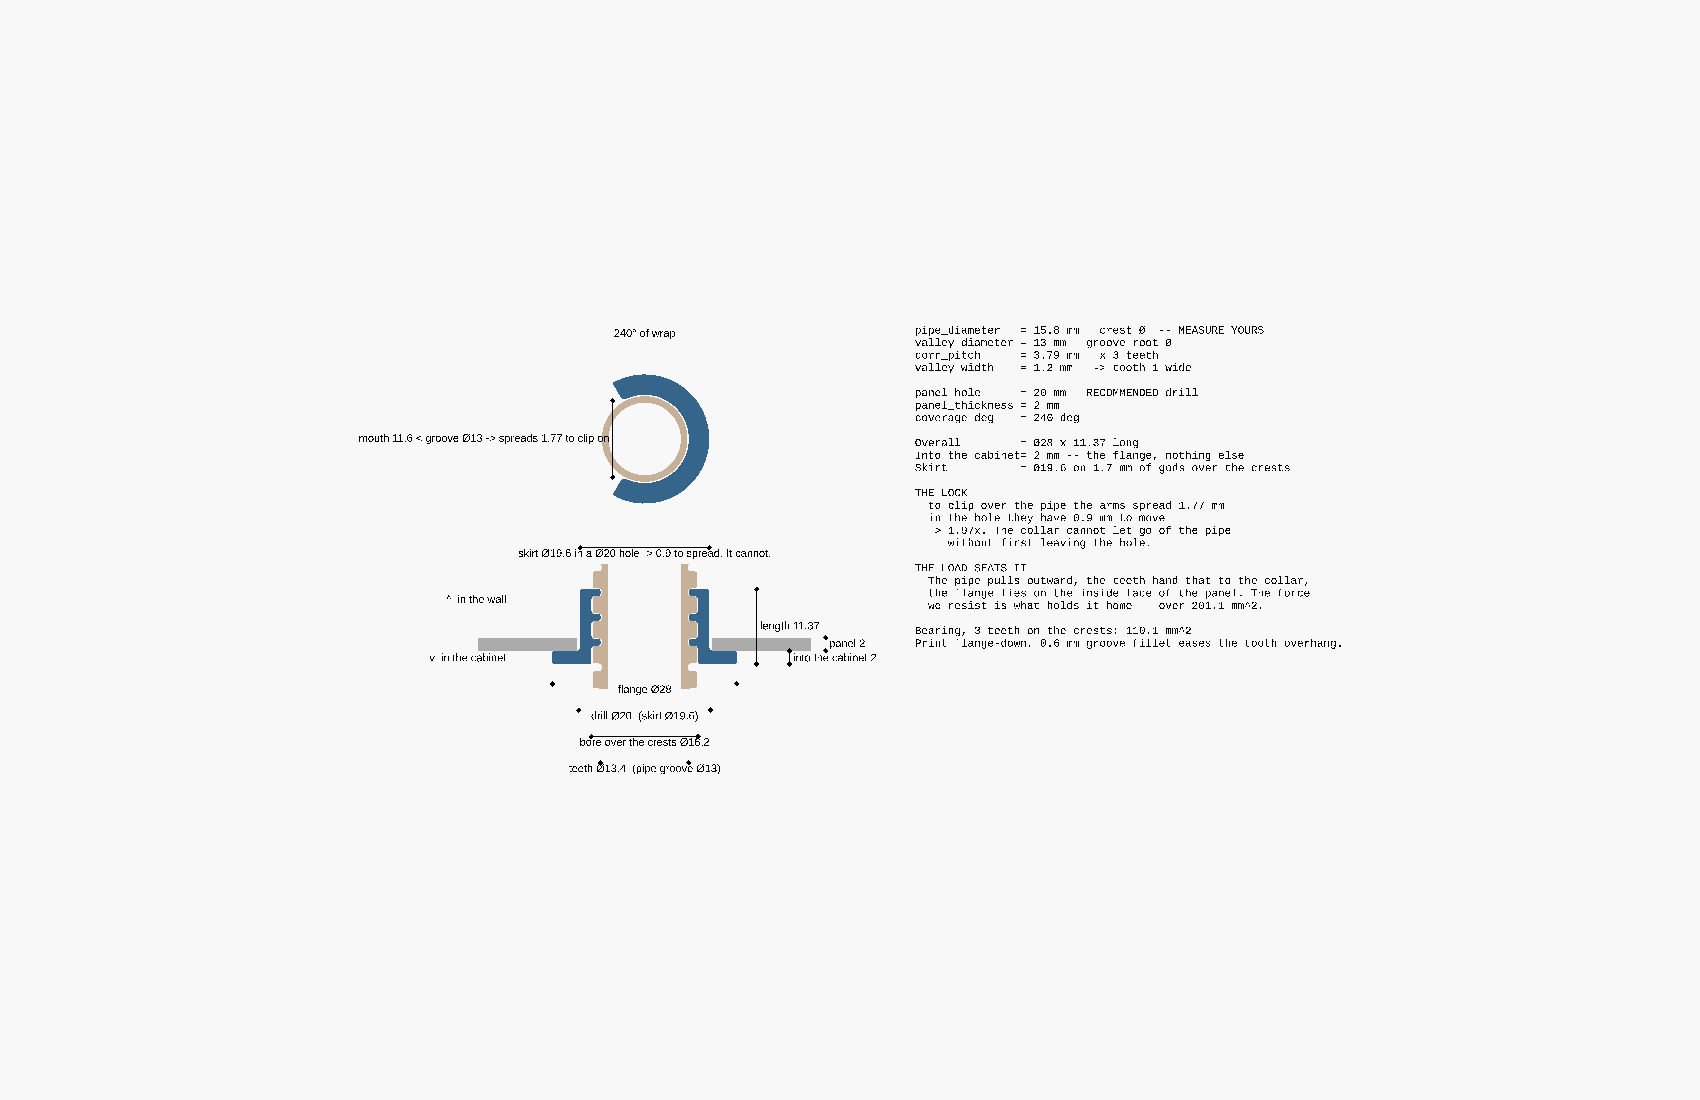
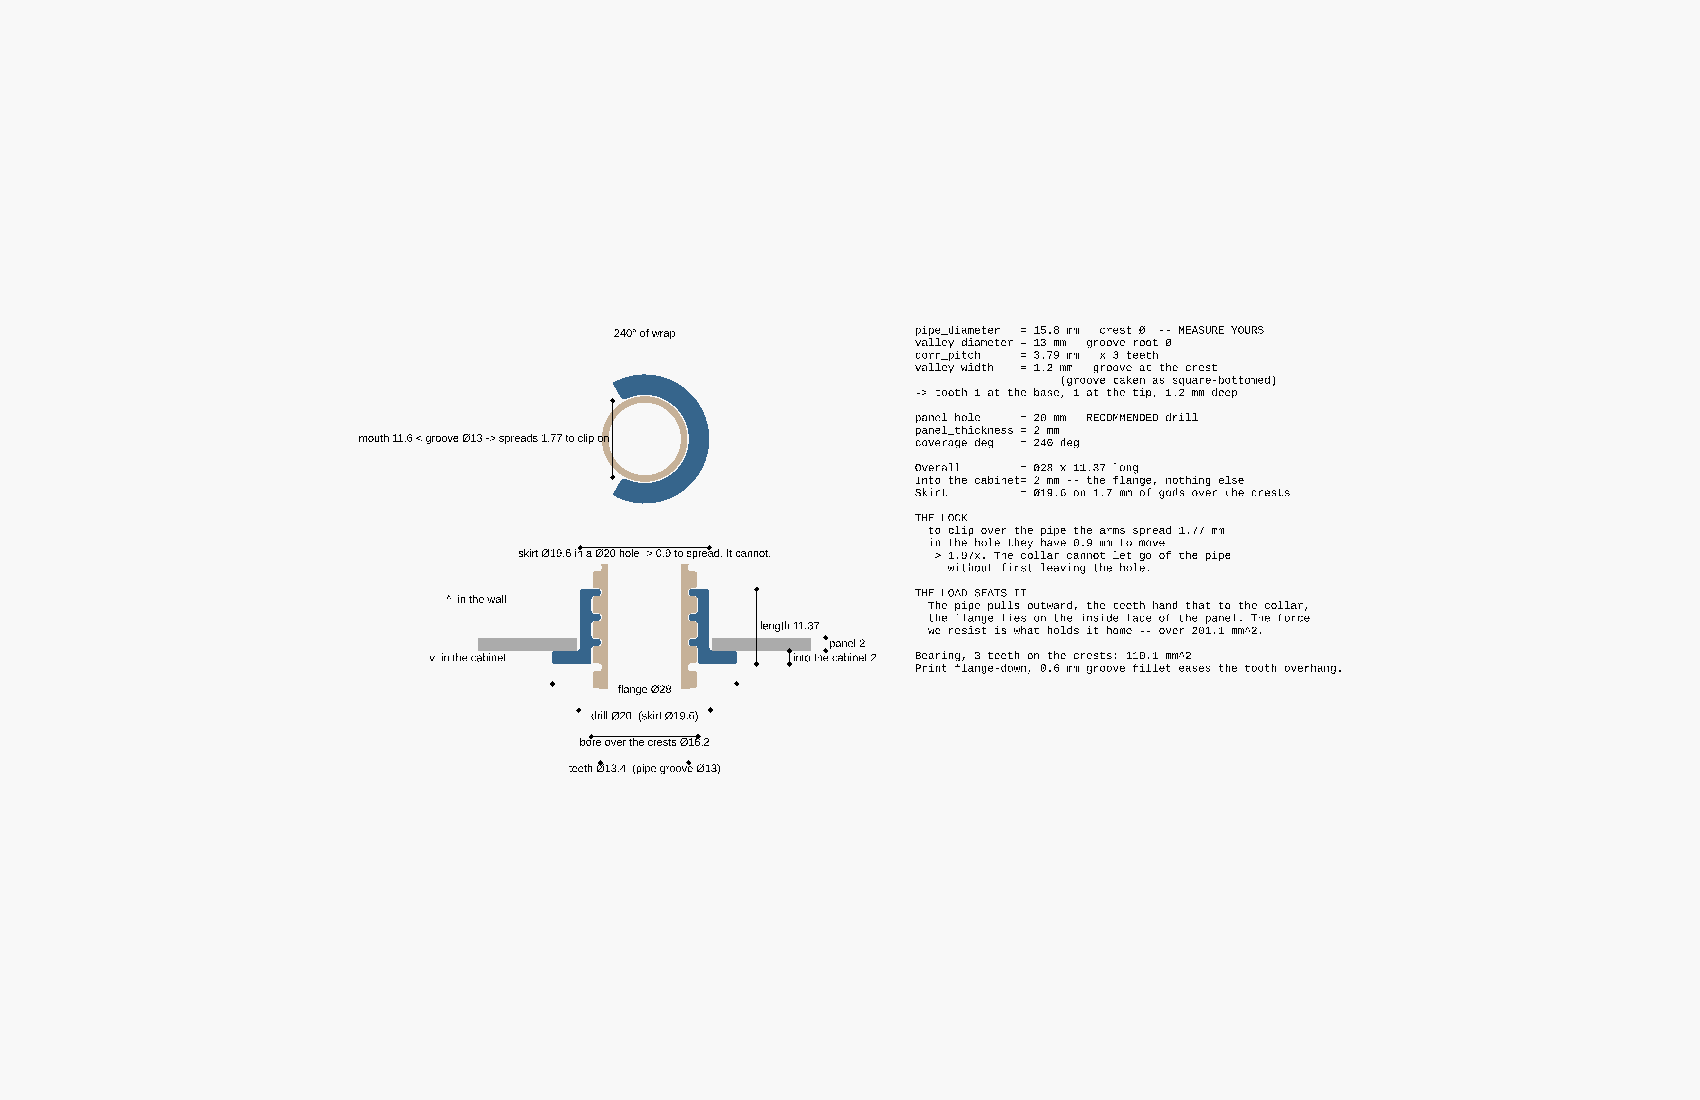
snap_collar: a pointed tooth for the 20 mm pipe, whose groove is a V
Measured on the actual conduit: five corrugations over 19.15 mm, crest 2.8 mm
wide, and a groove that opens about 1.03 mm at the crest and closes to roughly
0.35 at the root. The old snap_collar_20mm preset guessed pitch 4.4 and a 1.4 mm
square groove, and was wrong on both counts.

The teeth were too wide, which is not a number to nudge but a shape to change. A
square tooth cut to the groove's mouth width is 0.83 mm across, and the groove is
only that wide 0.44 mm down -- so it lands on the flanks near the top and stops,
at under half the intended bite. It renders perfectly and grips like a bump. The
new fit check puts a number on it: 16 mm^3 of such a tooth is inside the pipe, in
six rings hugging the groove walls from the tip radius right out to the crest.

So the tooth follows the groove:

  valley_root_width  the groove's width at its root; 0 keeps it square-bottomed,
                     which is what every 16 mm preset says and why they do not
                     move a byte
  tooth_bite         how far in past the crest the tooth reaches, so it can stop
                     before the walls close on it -- 1.0 mm here, leaving 0.5 mm
                     clear of the root

Both ends of the tooth are read off the groove's own flank line, stepped back
tooth_side_play/2, so the clearance is 0.1 mm per side at every depth instead of
pinching at one corner. 0.92 mm at the base, 0.38 at the tip. In the print
[…]

Changed region(s): [[0.53, 0.3709, 0.7794, 0.6182], [0.6235, 0.34, 0.7171, 0.3709]]

diff --git a/README.md b/README.md
@@ -312,6 +312,71 @@ thick, and the model refuses it by name. Ø20 leaves 1.7 mm of gods over the cre
 neither holds the pipe nor gets locked by the hole, above ~290° there is no mouth left to
 get the pipe in.
 
+### 20 mm: the groove is not a slot
+
+The 16 mm pipe measured here has a groove square enough to model as one. The 20 mm pipe does
+not. Measured: five corrugations over 19.15 mm, crest 2.8 mm wide, and a groove that opens
+about 1.0 mm at the crest and closes to roughly a third of that at the root — a U tending
+towards a V.
+
+A square tooth cut to the groove's mouth width **does not go in**. It is 0.83 mm wide and
+the groove is only that wide 0.44 mm down, so it lands on the flanks near the top and stops
+— less than half the intended bite. Rendered it looks perfect; on the pipe it grips like a
+bump. Run the check below against such a tooth and 16 mm³ of it is inside the pipe, in six
+rings hugging the groove walls from r 9.0 right out to the crest at r 10.0.
+
+So the tooth tapers with the groove:
+
+| | |
+|---|---|
+| `valley_width` | the groove's width **at the crest**, where it opens — 1.03 (pitch 3.83 − crest 2.8) |
+| `valley_root_width` | its width **at the root**, down on `valley_diameter` — 0.35. `0` means square-bottomed, and every 16 mm preset leaves it there |
+| `tooth_bite` | how far in past the crest the tooth reaches — 1.0, stopping 0.5 mm clear of the root |
+
+Both ends of the tooth are read off the groove's own flank line, stepped back
+`tooth_side_play`/2, so the clearance is 0.1 mm per side at *every* depth rather than
+pinching at one corner. The tooth comes out 0.92 mm at the base and 0.38 mm at the tip. At
+0.2 mm layers that tip is a ring two layers tall, not a thin wall — printable in this
+orientation precisely because the taper runs along the axis.
+
+**The wedge.** A sloped load face gives some of the pull back as a push outwards: 12.8° off
+square here, so 22.7 % of whatever pulls the pipe is trying to cam the teeth out of the
+grooves and spread the C. The hole was already there to stop the C spreading, and at Ø25 it
+has 2.59× the margin it needs — so on this pipe the lock is doing two jobs, not one. If you
+screw the brim to a stud instead, it does neither and the point is moot.
+
+![20 mm snap collar](images/snap_collar_20mm.png)
+
+| Cut in half | On the pipe, in the panel |
+|---|---|
+| ![Section](images/snap_collar_20mm_split.png) | ![Assembly](images/snap_collar_20mm_assembly.png) |
+
+![20 mm dimensioned drawing](images/snap_collar_20mm_dimensions.png)
+
+**Pitch.** Three teeth means the pitch error piles up along the run: 0.1 mm per corrugation,
+counting out from the middle tooth, before the outermost runs out of play. Measure over five
+and divide — 19.15/5 = 3.83 — rather than measuring one. The model prints the tolerance it
+has. A tapered tooth is forgiving here in a way a square one is not: off-pitch it seats a
+little less deep instead of jamming.
+
+### Checking a tooth against a pipe you measured
+
+```sh
+openscad --export-format asciistl -o /dev/null \
+    -D 'part="fit"' -p snap_collar.json -P snap_collar_20mm snap_collar.scad
+```
+
+(`--export-format` is not optional here — OpenSCAD picks the exporter off the file suffix,
+and `/dev/null` has none.)
+
+`part = "fit"` intersects the collar with the modelled conduit. It must print **"Current top
+level object is empty"**. Anything else is material the slicer will lay down inside the
+groove, and the part will sit proud of the pipe by however thick it is.
+
+This is in the dispatch because the eye cannot do it. A tooth that bottoms on the flanks of
+a V looks right in every view — correct depth, correct width, seated — and the interference
+is a wedge a tenth of a millimetre thick. Run it for every new pipe.
+
 ### Presets
 
 | Preset | What |
@@ -323,7 +388,10 @@ get the pipe in.
 | `snap_collar_16mm_stud1` | Ø41 brim, **one** countersunk screw, opposite the mouth |
 | `snap_collar_16mm_stud2` | Ø41 brim, **two**, one each side |
 | `snap_collar_16mm_pipe` | a stub of the conduit itself, to test the clip on |
-| `snap_collar_20mm` | 20 mm conduit, Ø25 hole |
+| `snap_collar_20mm` | **20 mm conduit, measured** — pitch 3.83, V groove 1.03 → 0.35, Ø25 hole |
+| `snap_collar_20mm_fittest` | same pipe, 2 teeth, no flange — ~1 g, print this first |
+| `snap_collar_20mm_stud2` | same pipe, Ø46 brim, two countersunk screws |
+| `snap_collar_20mm_pipe` | a stub of the 20 mm conduit, V groove and all |
 
 The two 16 mm presets differ because the two projects here measured two different "16 mm"
 pipes — 15.8/13.0/3.79 in this one, 16.0/14.0/3.372 in
@@ -332,7 +400,9 @@ the nominal diameter and nothing else, so **measure yours** (see
 [How to measure your conduit](#how-to-measure-your-conduit)) and print
 `snap_collar_16mm_fittest` before committing to a full part. Too tight: raise
 `pipe_clearance` 0.2 at a time. Slides off sideways: raise `coverage_deg` 5° at a time. The
-tooth bottoms out before it seats: raise `bottom_clearance`.
+tooth bottoms out before it seats: raise `bottom_clearance`, or if the groove turns out to
+be a V, say so with `valley_root_width` and cut `tooth_bite` — see
+[20 mm: the groove is not a slot](#20-mm-the-groove-is-not-a-slot).
 
 ### Printing
 
@@ -354,14 +424,20 @@ arguments.
 
 | | |
 |---|---|
-| [`corrugation.scad`](corrugation.scad) | the square-wave profile and its two fillet passes |
+| [`corrugation.scad`](corrugation.scad) | the corrugation profile — square or tapered — and its two fillet passes |
 | [`brim.scad`](brim.scad) | countersunk screw holes in a flange |
 | [`thread.scad`](thread.scad) | the threaded stuss and nut the corner parts share |
 
 It also carries the bound that is easy to get wrong: a closing of radius *R* **seals** any
-slot narrower than 2*R* rather than filleting it. The conduit's own groove is 1.2 mm wide,
-so the 0.6 mm fillet our much wider recesses are happy with would fill the pipe's grooves in
-completely. `CORR_FILLET_MAX` is the margin, and it is asserted.
+slot narrower than 2*R* rather than filleting it, and an opening of radius *R* **erases** any
+rib thinner than 2*R*. The conduit's own groove is 1.2 mm wide, so the 0.6 mm fillet our much
+wider recesses are happy with would fill the pipe's grooves in completely. `CORR_FILLET_MAX`
+is the margin, and it is asserted.
+
+The taper sharpens that second bound rather than adding a new one: a tooth you point is a rib
+you thin, so it is the 0.38 mm **tip**, not the 0.92 mm base, that the opening pass has to
+clear. Hence `corr_round` drops from 0.3 to 0.15 on the 20 mm preset, and the assert names
+the number.
 
 ## Addon: corner bend
 
